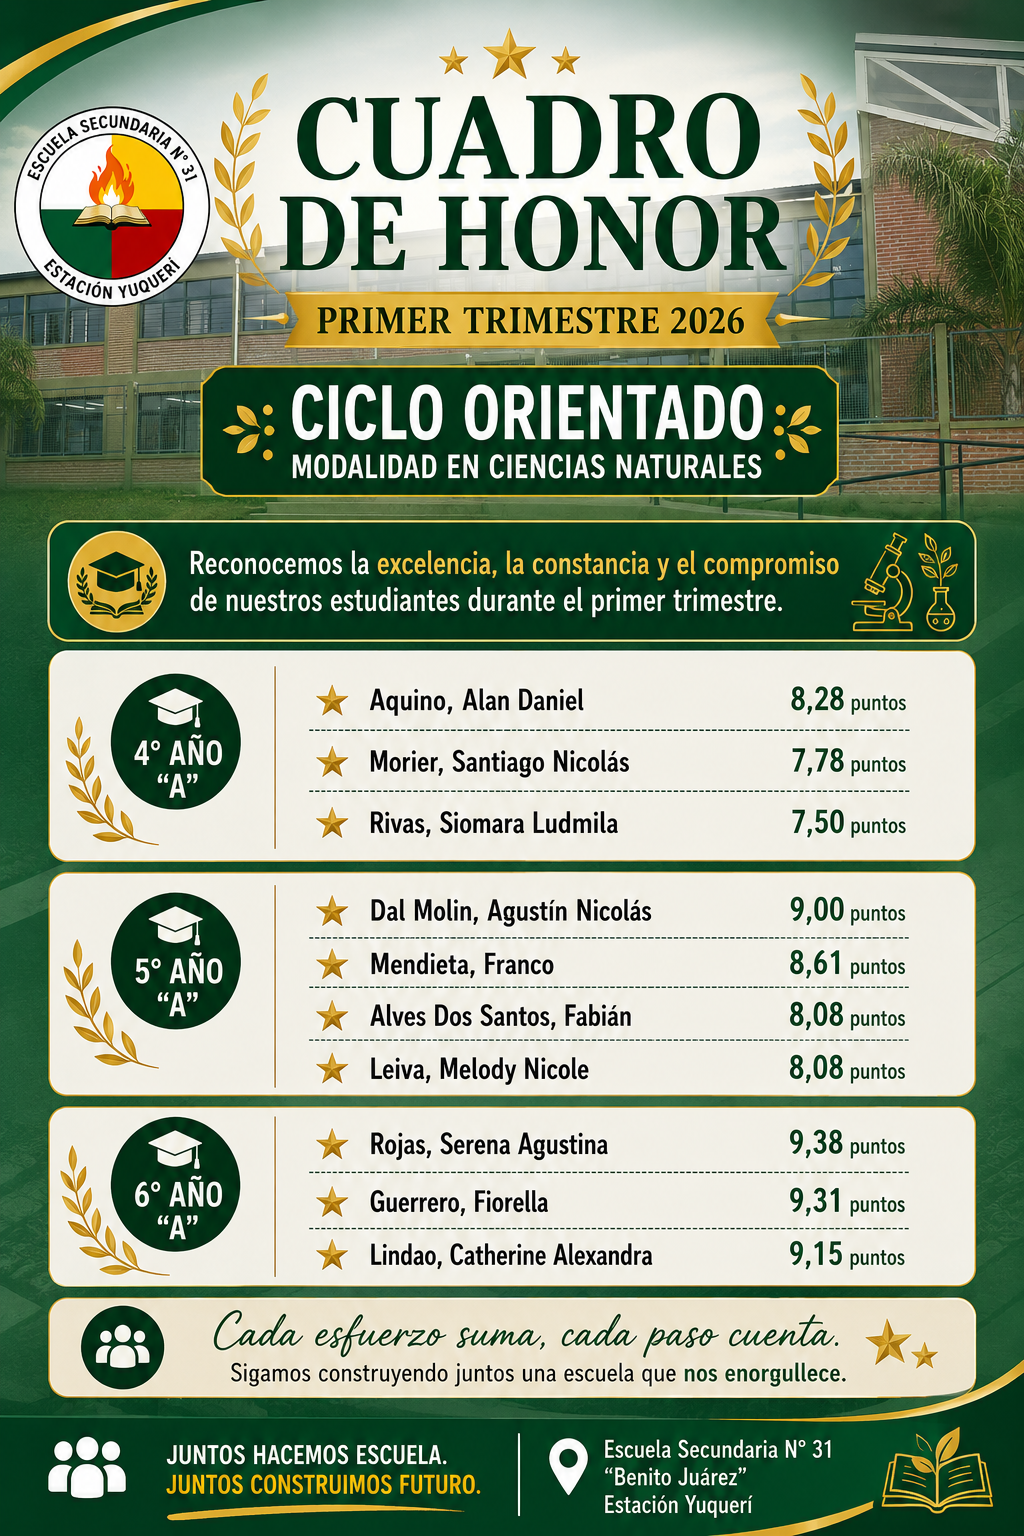
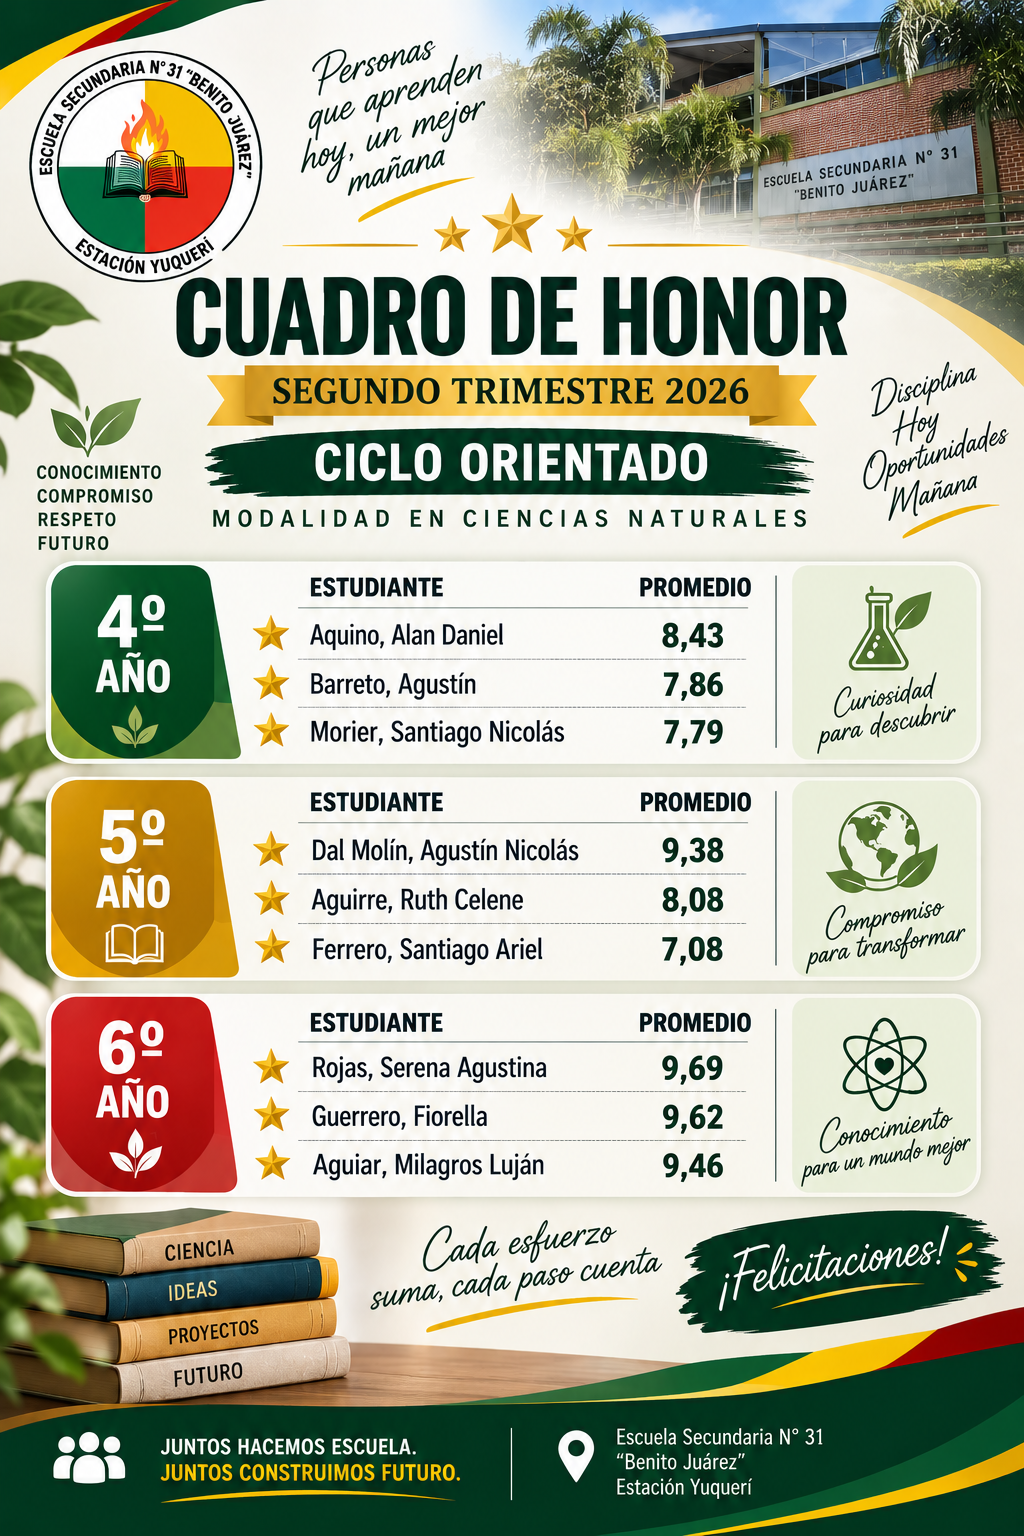
N1

diff --git a/vida-escolar.html b/vida-escolar.html
@@ -83,10 +83,10 @@
 <div class="recognition-block honor-block" id="cuadro-honor">
 <span class="tag gold">Reconocimiento académico</span>
 <h3>Cuadro de Honor Institucional</h3>
-<p>Estudiantes destacados por su desempeño académico durante el Primer Trimestre 2026.</p>
+<p>Estudiantes destacados por su desempeño académico durante el Segundo Trimestre 2026.</p>
 <div class="honor-preview-grid">
-<article class="honor-preview"><a data-caption="Cuadro de Honor - Ciclo Básico Común" data-lightbox="institucional" href="assets/imagenes/cuadro-honor-ciclo-basico-2026.png"><img alt="Cuadro de honor ciclo básico común" src="assets/imagenes/cuadro-honor-ciclo-basico-2026.png"/></a><h3>Ciclo Básico Común</h3><a class="btn" data-caption="Cuadro de Honor - Ciclo Básico Común" data-lightbox="institucional" href="assets/imagenes/cuadro-honor-ciclo-basico-2026.png">Abrir en tamaño completo</a></article>
-<article class="honor-preview"><a data-caption="Cuadro de Honor - Ciclo Orientado" data-lightbox="institucional" href="assets/imagenes/cuadro-honor-ciclo-orientado-2026.png"><img alt="Cuadro de honor ciclo orientado ciencias naturales" src="assets/imagenes/cuadro-honor-ciclo-orientado-2026.png"/></a><h3>Ciclo Orientado – Ciencias Naturales</h3><a class="btn gold" data-caption="Cuadro de Honor - Ciclo Orientado" data-lightbox="institucional" href="assets/imagenes/cuadro-honor-ciclo-orientado-2026.png">Abrir en tamaño completo</a></article>
+<article class="honor-preview"><a data-caption="Cuadro de Honor — Segundo Trimestre 2026 — Ciclo Básico Común" data-lightbox="institucional" href="assets/imagenes/cuadro-honor-ciclo-basico-2026.png"><img alt="Cuadro de Honor del Segundo Trimestre 2026 — Ciclo Básico Común" src="assets/imagenes/cuadro-honor-ciclo-basico-2026.png"/></a><h3>Segundo Trimestre 2026 — Ciclo Básico Común</h3><a class="btn" data-caption="Cuadro de Honor — Segundo Trimestre 2026 — Ciclo Básico Común" data-lightbox="institucional" href="assets/imagenes/cuadro-honor-ciclo-basico-2026.png">Abrir en tamaño completo</a></article>
+<article class="honor-preview"><a data-caption="Cuadro de Honor — Segundo Trimestre 2026 — Ciclo Orientado" data-lightbox="institucional" href="assets/imagenes/cuadro-honor-ciclo-orientado-2026.png"><img alt="Cuadro de Honor del Segundo Trimestre 2026 — Ciclo Orientado" src="assets/imagenes/cuadro-honor-ciclo-orientado-2026.png"/></a><h3>Segundo Trimestre 2026 — Ciclo Orientado</h3><a class="btn gold" data-caption="Cuadro de Honor — Segundo Trimestre 2026 — Ciclo Orientado" data-lightbox="institucional" href="assets/imagenes/cuadro-honor-ciclo-orientado-2026.png">Abrir en tamaño completo</a></article>
 </div>
 </div>
 </section>

diff --git a/benito/conocimiento/benito-conocimiento.js b/benito/conocimiento/benito-conocimiento.js
@@ -553,10 +553,10 @@ window.BENITO_CONOCIMIENTO = [
     },
     {
       id: 'cuadro-honor', priority: 17,
-      phrases: ['cuadro de honor','cuadro de honor institucional','estudiantes destacados'],
-      keywords: ['honor','academico','destacados'],
+      phrases: ['cuadro de honor','cuadro de honor institucional','estudiantes destacados','cuadro de honor segundo trimestre','cuadro de honor ciclo basico','cuadro de honor ciclo orientado'],
+      keywords: ['honor','academico','destacados','segundo trimestre','ciclo basico','ciclo orientado'],
       title: 'Cuadro de Honor Institucional',
-      html: 'El Cuadro de Honor reconoce a estudiantes destacados por su desempeño académico durante el <strong>Primer Trimestre de 2026</strong>. El Portal publica los cuadros del Ciclo Básico Común y del Ciclo Orientado en Ciencias Naturales.',
+      html: 'El Cuadro de Honor vigente corresponde al <strong>Segundo Trimestre de 2026</strong>.<br><br><strong>Ciclo Básico Común:</strong> Tadeo López; Rubí del Cielo Mendieta; Juan Ignacio Ragone; Francisco Pérez; Erika Gómez; Keila Cantero; Jazmín Cardozo; Judit Castro; Luna Pereira; Pedro López Romani; Aldana Merentiel; Franco Lautaro Sánchez.<br><br><strong>Ciclo Orientado:</strong> Alan Daniel Aquino; Agustín Barreto; Santiago Nicolás Morier; Agustín Nicolás Dal Molín; Ruth Celene Aguirre; Santiago Ariel Ferrero; Serena Agustina Rojas; Fiorella Guerrero; Milagros Luján Aguiar.',
       actions: [['Ver cuadros de honor','../vida-escolar.html#cuadro-honor']]
     },
     {
